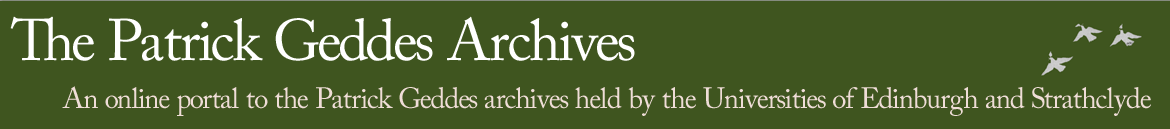
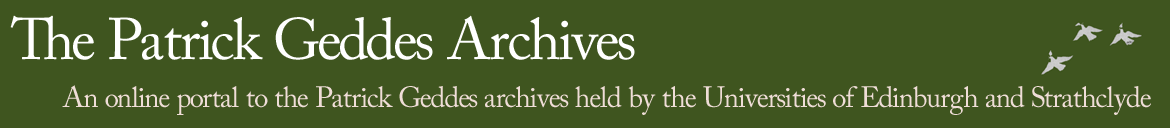
Default Points of Arrival container_id to prod + drop unused Geddes header.
- config/collections/pointsofarrival.php now falls back to the prod
  community UUID (5f407bc8-…fac8e07c7f) instead of the dev UUID
  (bac433ed-…3fd0bed2c). We only read from Solr so prod data is the
  right default everywhere; dev/staging can override via
  POINTSOFARRIVAL_CONTAINER_ID. Brings POA in line with every other
  prefixed DSpace collection (alumni, art, geddes, openbooks, mimed,
  public-art, iog, etc.).
- public/collections/geddes/images/n-header-doves.png: replace the
  oversized banner asset (24.4 KB → 17.1 KB) noticed while preparing
  the IOG PR. No visible change in the layout.

diff --git a/config/collections/pointsofarrival.php b/config/collections/pointsofarrival.php
@@ -40,7 +40,11 @@ return array_merge($dspaceDefaults, [
 
     'adminemail' => '[email redacted]',
 
-    'container_id' => env('POINTSOFARRIVAL_CONTAINER_ID', 'bac433ed-36a9-4660-b49c-49d3fd0bed2c'),
+    // Production DSpace community UUID is the default — we only read from
+    // Solr and want the latest data everywhere by default. Dev/staging
+    // overrides via POINTSOFARRIVAL_CONTAINER_ID (legacy dev UUID:
+    // bac433ed-36a9-4660-b49c-49d3fd0bed2c).
+    'container_id' => env('POINTSOFARRIVAL_CONTAINER_ID', '5f407bc8-1f6c-4ab7-830a-66fac8e07c7f'),
 
     'oaipmhcollection' => 'hdl_10683_14558',
 